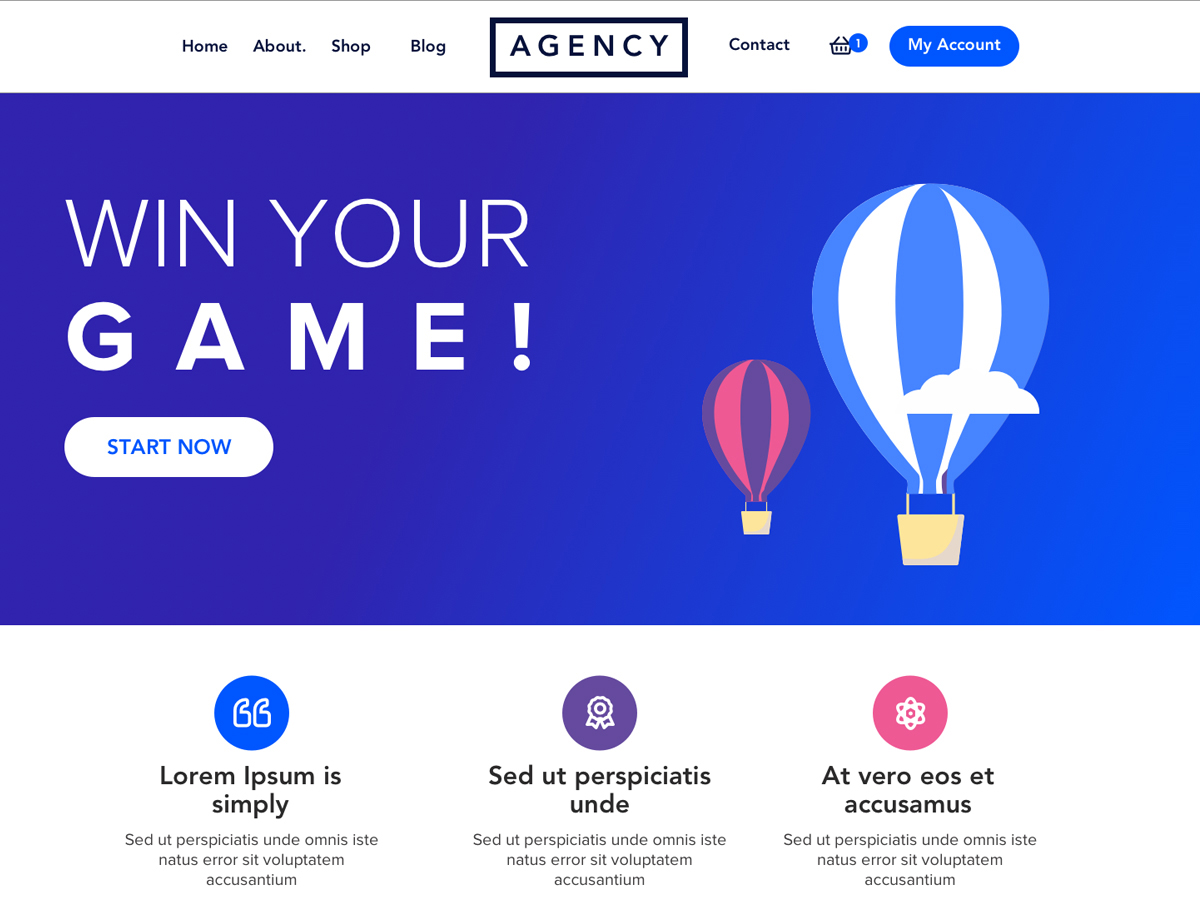
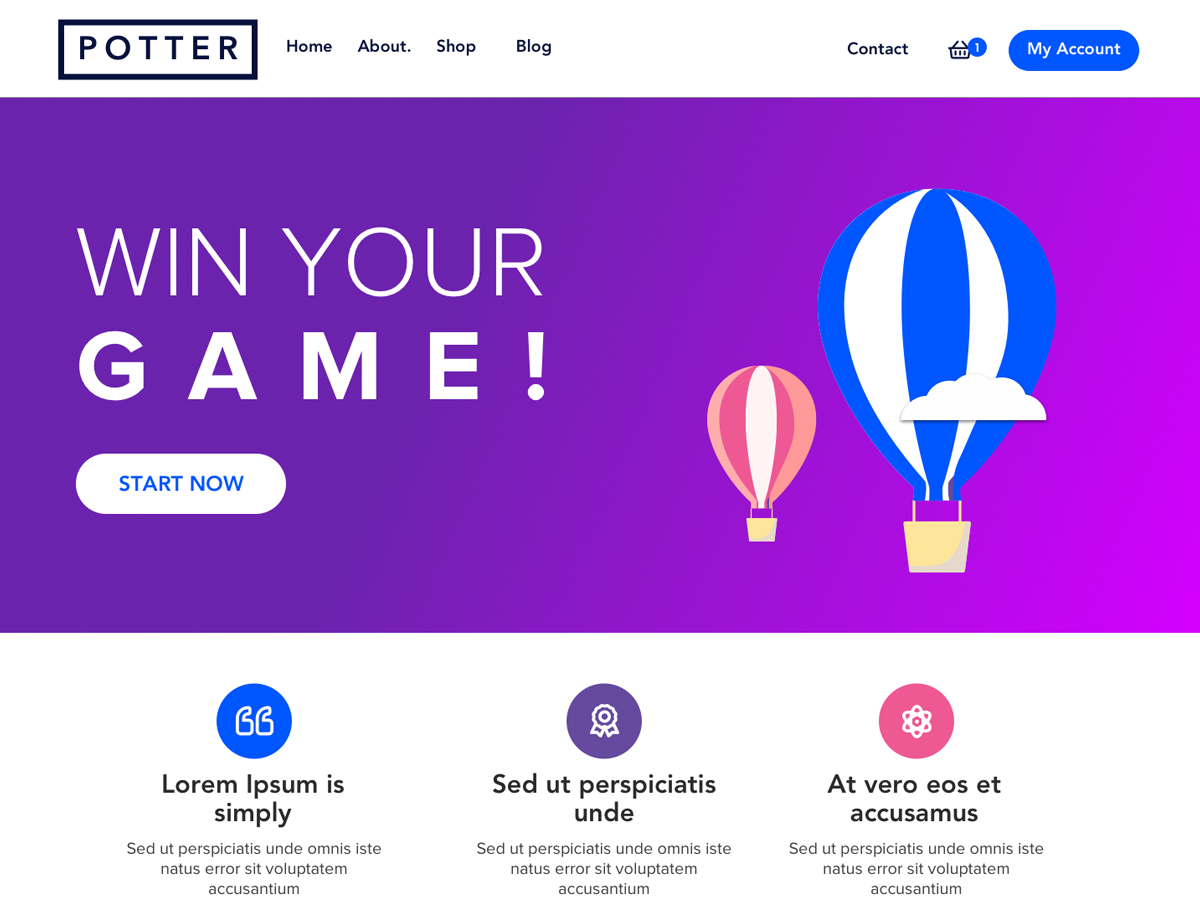
Version 1.1.2 Released

diff --git a/js/min/site-min.js b/js/min/site-min.js
@@ -4,5 +4,5 @@ var b=0;if(a(".calculate-width").each(function(){b+=a(this).outerWidth()}),200>b
 a(".potter-sub-menu-animation-fade > .menu-item-has-children").hover(function(){a(".sub-menu",this).first().stop().fadeIn(d)},function(){a(".sub-menu",this).first().stop().fadeOut(d)});a(".potter-sub-menu > .menu-item-has-children:not(.potter-mega-menu) .menu-item-has-children").hover(function(){a(".sub-menu",this).first().stop().css({display:"block"}).animate({opacity:"1"},d)},function(){a(".sub-menu",this).first().stop().animate({opacity:"0"},d,function(){a(this).css({display:"none"})})});a(window).load(function(){a(".opacity").delay(200).animate({opacity:"1"},
 200);a(".display-none").show();a(window).trigger("resize");a(window).trigger("scroll")});var f=a(".potter-page").css("margin-top");if(a(window).resize(function(){a(".potter-page").width()>=a(window).width()?a(".potter-page").css({"margin-top":"0","margin-bottom":"0"}):a(".potter-page").css({"margin-top":f,"margin-bottom":f})}),a(".potter-menu-centered").length){var e=a(".potter-navigation .potter-menu > li > a").length/2,e=(e=Math.floor(e))-1;a(".potter-menu-centered .logo-container").insertAfter(".potter-navigation .potter-menu >li:eq("+
 e+")").css({display:"block"})}a("body").mousedown(function(){a(this).addClass("using-mouse");a(".menu-item-has-children").removeClass("potter-sub-menu-focus")});a("body").keydown(function(){a(this).removeClass("using-mouse")});a(".potter-menu-container #navigation a").on("focus",c);a(".potter-menu-container #navigation a").on("blur",c)}(jQuery);
-jQuery(document).ready(function(){var a=jQuery("#main-navbar");if(a.length)var b=a.offset().top;var c=function(){jQuery(window).scrollTop()>b?(jQuery("#main-navbar").addClass("stickynav"),jQuery(".site-logo").addClass("hide-on-sticky")):(jQuery("#main-navbar").removeClass("stickynav"),jQuery(".site-logo").removeClass("hide-on-sticky"))};c();jQuery(window).scroll(function(){c()})});
+jQuery(document).ready(function(){var a=jQuery("#main-navbar");if(a.length)var b=a.offset().top;var c=function(){jQuery(window).scrollTop()>b?(jQuery("#main-navbar").addClass("stickynav"),jQuery(".site-logo").addClass("hide-on-sticky")):(jQuery("#main-navbar").removeClass("stickynav"),jQuery(".site-logo").removeClass("hide-on-sticky"))};c();jQuery(window).scroll(function(){c()});a=jQuery("#header").height();jQuery("#header").css("min-height",a+"px")});
 jQuery("#potter-menu-toggle").click(function(){jQuery(".potter-menu-off-canvas").toggleClass("canvas-visible");jQuery(this).toggleClass("canvas-close-nav");jQuery(".potter-menu-overlay").toggleClass("menu-overlay-visible")});jQuery(".potter-menu-off-canvas .potter-close").click(function(){jQuery(".potter-menu-off-canvas").toggleClass("canvas-visible");jQuery("#potter-menu-toggle").toggleClass("canvas-close-nav");jQuery(".potter-menu-overlay").toggleClass("menu-overlay-visible")});

diff --git a/style.css b/style.css
@@ -1295,7 +1295,34 @@ body:focus {
 .potter-logo-container {
   line-height: 1.5
 }
+.potter-split-menu {
+  display: table;
+  width: 100%;
+}
+.logo-container-split {
+  padding-left: 0px;
+  display: table-cell;
+  padding-right: 30px;
+  vertical-align: middle;
+}
+.logo-container-split a{
+  display: block;
+}
+.split-left-menu {
+  display: table-cell;
+  vertical-align: middle;
+}
+.split-left-menu #navigation-left {
+  float: left;
+}
+.split-left-menu #navigation-right {
+  float: right;
+}
 
+.split-menu .main-nav-left-menu ul.potter-sub-menu {
+  display: block;
+  margin: auto 0px;
+}
 .potter-logo a {
   font-weight: 700;
   font-size: 22px
@@ -1527,6 +1554,12 @@ body:focus {
   justify-content: center;
   margin: auto;
 }
+.potter-menu-centered .main-nav-left-menu nav {
+  float: right;
+}
+.potter-menu-centered .main-nav-right-menu nav {
+  float: left;
+}
 
 .potter-menu-stacked {
   text-align: center
@@ -1649,8 +1682,16 @@ body:focus {
 .stickynav {
   position: fixed;
   top: 0;
-  left: 0;
-  width: 100%
+  left: 0px;
+  width: 100%;
+}
+#content {
+  transition: 3s;
+  animation: smoothScroll 1s backwards;
+}
+
+.hide-on-sticky {
+  display: none !important;
 }
 
 @media(min-width:1025px) {
@@ -1843,7 +1884,8 @@ body:focus {
 }
 
 .potter-navigation {
-  border-bottom: 1px solid #ccc
+  border-bottom: 1px solid #ccc;
+
 }
 
 .potter-page {

diff --git a/admin/css/potter-admin.css b/admin/css/potter-admin.css
@@ -153,6 +153,7 @@
 }
 .potter-core-sidebar-block {
     margin: calc(3% + 1.5em) auto;
+    text-align: center;
 }
 .potter-core-sidebar-block .potter-admin-sidebar-logo {
     display: block;
@@ -298,6 +299,7 @@
     outline: none;
     box-shadow: none;
     transition: all 0.3s;
+    margin: auto;
 }
 
 .potter-admin-sidebar-cta a:hover {

diff --git a/js/regular/site.js b/js/regular/site.js
@@ -119,7 +119,9 @@ jQuery(document).ready(function() {
   c();
   jQuery(window).scroll(function() {
     c()
-  })
+  });
+  a = jQuery("#main-navbar").height();
+  jQuery("#header").css("min-height", a + "px")
 });
 jQuery("#potter-menu-toggle").click(function() {
   jQuery(".potter-menu-off-canvas").toggleClass("canvas-visible");

diff --git a/admin/admin.php b/admin/admin.php
@@ -63,29 +63,23 @@ class Potter_Admin
         <div class="potter-core-sidebar">
           <div class="potter-core-sidebar-block"><div class="potter-admin-sidebar-logo">
 
-  <svg width="100px" viewBox="0 0 508 657" version="1.1" xmlns="http://www.w3.org/2000/svg" xmlns:xlink="http://www.w3.org/1999/xlink">
-      <defs>
-          <polygon id="path-1" points="0.000250887204 0.514599158 505.612982 0.514599158 505.612982 361.11649 0.000250887204 361.11649"></polygon>
-      </defs>
-      <g id="logo" stroke="none" stroke-width="1" fill="none" fill-rule="evenodd">
-          <g id="Group-9" transform="translate(254.000000, 328.500000) scale(1, -1) translate(-254.000000, -328.500000) ">
-              <g id="Group-3" fill="#4660C4">
-                  <path d="M66.843121,477.703371 L0.943655943,477.703371 L0.943655943,181.303026 C0.943655943,81.3319098 81.9026121,0.000506927218 181.412823,0.000506927218 C280.92051,0.000506927218 361.876943,81.3319098 361.876943,181.303026 L295.980001,181.303026 C295.980001,117.838273 244.584978,66.202667 181.412823,66.202667 C118.238144,66.202667 66.843121,117.838273 66.843121,181.303026 L66.843121,477.703371 Z" id="Fill-1"></path>
-                  <path d="M179.030896,326.170205 C265.813865,326.170205 336.165361,302.0182 336.165361,209.468981 C336.165361,116.919762 265.813865,41.8937962 179.030896,41.8937962 C92.2479279,41.8937962 21.8964317,116.919762 21.8964317,209.468981 C21.8964317,252.797892 24.4461444,359.15822 49.7530168,377.044166 C78.5008437,397.362048 132.877245,326.170205 179.030896,326.170205 Z" id="Oval"></path>
+          <svg width="103px" height="122px" viewBox="0 0 103 122" version="1.1" xmlns="http://www.w3.org/2000/svg" xmlns:xlink="http://www.w3.org/1999/xlink">
+              <defs>
+                  <polygon id="path-1" points="0 0.0715545926 102.74172 0.0715545926 102.74172 121.961314 0 121.961314"></polygon>
+              </defs>
+              <g id="logo" stroke="none" stroke-width="1" fill="none" fill-rule="evenodd">
+                  <g id="Group-6" transform="translate(51.500000, 61.000000) scale(-1, -1) translate(-51.500000, -61.000000) ">
+                      <g id="Group-3">
+                          <mask id="mask-2" fill="white">
+                              <use xlink:href="#path-1"></use>
+                          </mask>
+                          <g id="Clip-2"></g>
+                          <path d="M47.3345473,1.7464715 C45.1060019,3.97930315 45.1060019,7.60140014 47.3345473,9.83423179 L79.6230966,42.184882 C87.1697973,49.7460975 91.3260814,59.7989216 91.3260814,70.4916521 C91.3260814,81.1847736 87.1697973,91.2375977 79.6230966,98.7984222 C72.076786,106.359247 62.0432595,110.523525 51.3706648,110.523525 C40.6984602,110.523525 30.6649337,106.359247 23.1186231,98.7984222 C15.5723125,91.2375977 11.4156383,81.1847736 11.4156383,70.4916521 C11.4156383,61.7295861 14.206392,53.3975121 19.366536,46.5137297 L27.560108,54.7226695 C20.2354034,65.8184199 21.4456534,80.9474961 31.1904678,90.7106619 C42.3179792,101.859575 60.4233504,101.859575 71.5512519,90.7106619 C76.9415852,85.3103522 79.9102481,78.1294843 79.9102481,70.4916521 C79.9102481,62.8542108 76.9415852,55.6733429 71.5512519,50.2726423 L55.4067822,34.0971217 C53.1778466,31.8638992 49.5638731,31.8638992 47.3345473,34.0971217 C45.1060019,36.3303443 45.1060019,39.9520504 47.3345473,42.184882 L63.479017,58.3604026 C66.7133731,61.6009793 68.4944148,65.9091092 68.4944148,70.4916521 C68.4944148,75.074586 66.7133731,79.3823249 63.479017,82.6229016 C56.8027443,89.3120149 45.9389754,89.3120149 39.2627027,82.6229016 C32.5860398,75.9337884 32.5860398,65.0495159 39.2627027,58.3604026 C41.4912481,56.1263982 41.4912481,52.5058649 39.2627027,50.2726423 L23.1186231,34.0971217 C22.0484375,33.0248778 20.5962936,32.422498 19.0825057,32.422498 C17.5687178,32.422498 16.116964,33.0248778 15.0463883,34.0971217 C5.34371023,43.818852 -0.000195075758,56.7436323 -0.000195075758,70.4916521 C-0.000195075758,84.2396719 5.34371023,97.1648432 15.0463883,106.885792 C24.7486761,116.607131 37.649036,121.961314 51.3706648,121.961314 C65.0922936,121.961314 77.9926534,116.607522 87.6953314,106.885792 C97.3980095,97.1648432 102.741915,84.2396719 102.741915,70.4916521 C102.741915,56.7436323 97.3983996,43.818852 87.6953314,34.0971217 L55.4067822,1.7464715 C53.1778466,-0.486751044 49.5638731,-0.486751044 47.3345473,1.7464715" id="Fill-1" fill="#FF6B6B" mask="url(#mask-2)"></path>
+                      </g>
+                      <path d="M36.5736464,27.8902706 C36.9255291,27.8199986 37.2691411,27.7140271 37.6033544,27.5776168 C37.9334324,27.437073 38.2541119,27.2702241 38.5537385,27.072185 C38.7033638,26.9707229 38.8484779,26.8655029 38.9845692,26.7508882 C39.1255479,26.6366494 39.2616393,26.5130159 39.3894599,26.3856245 C39.5172806,26.2627426 39.6360786,26.1263323 39.7503653,25.9857885 C39.864652,25.8490025 39.9748033,25.6998155 40.0714206,25.5502528 C40.2695426,25.2556368 40.4413486,24.93434 40.57744,24.6044001 C40.7139073,24.2703266 40.8195473,23.9272342 40.8898487,23.5754988 C40.9251873,23.3992553 40.9515033,23.2192539 40.973684,23.0388767 C40.9913533,22.863009 41,22.6781224 41,22.5026305 C41,21.0554796 40.4105213,19.6346338 39.3894599,18.6139997 C38.3642632,17.589232 36.9477097,17 35.499953,17 C35.3195003,17 35.1390477,17.0135283 34.9589709,17.0311902 C34.7785183,17.0484764 34.602201,17.0747814 34.4262596,17.1101052 C34.0743769,17.1803772 33.7266296,17.2859729 33.3965516,17.4223832 C33.0623382,17.5587934 32.7454182,17.7301517 32.4461675,17.9281908 C32.2965422,18.0292771 32.1514282,18.1348729 32.0108255,18.2491118 C31.8698468,18.3637264 31.7378908,18.4866084 31.6104461,18.6139997 C31.4826254,18.7417669 31.3593161,18.8740435 31.2450294,19.0145873 C31.1352541,19.1509975 31.0251027,19.3005603 30.9284854,19.450123 C30.7303634,19.744739 30.5589333,20.0660358 30.422466,20.4001093 C30.2814874,20.7300492 30.1758474,21.0772752 30.105546,21.424877 C30.0705833,21.600369 30.0438914,21.7811219 30.026222,21.961499 C29.9912593,22.3173681 29.9912593,22.6826319 30.026222,23.0388767 C30.0438914,23.2192539 30.0705833,23.3992553 30.105546,23.5754988 C30.1758474,23.9272342 30.2814874,24.2703266 30.422466,24.6044001 C30.5589333,24.93434 30.7303634,25.2556368 30.9284854,25.5502528 C31.0251027,25.6998155 31.1352541,25.8490025 31.2450294,25.9857885 C31.3593161,26.1263323 31.4826254,26.2627426 31.6104461,26.3856245 C31.7378908,26.5130159 31.8698468,26.6366494 32.0108255,26.7508882 C32.1514282,26.8655029 32.2965422,26.9707229 32.4461675,27.072185 C32.7454182,27.2702241 33.0623382,27.437073 33.3965516,27.5776168 C33.7266296,27.7140271 34.0743769,27.8199986 34.4262596,27.8902706 C34.602201,27.9248429 34.7785183,27.9515236 34.9589709,27.9691856 C35.1390477,27.9868475 35.3195003,28 35.499953,28 C35.6804057,28 35.8608583,27.9868475 36.041311,27.9691856 C36.2168764,27.9515236 36.397705,27.9248429 36.5736464,27.8902706" id="Fill-4" fill="#FF6B6B"></path>
+                  </g>
               </g>
-              <path d="M327.5,657 L327.5,590.899668 C390.686355,590.899668 442.090878,539.347988 442.090878,475.983278 L442.090878,328.016722 C442.090878,264.649481 390.686355,213.100332 327.5,213.100332 C264.316168,213.100332 212.911645,264.649481 212.911645,328.016722 L147,328.016722 C147,228.205726 227.97392,147 327.5,147 C427.028603,147 508,228.205726 508,328.016722 L508,475.983278 C508,575.796804 427.028603,657 327.5,657" id="Fill-4" fill="#4FCEC4"></path>
-              <path d="M449.473768,359.830169 C508.914629,377.097622 466.053621,320.330966 466.053621,273.915085 C466.053621,227.499203 415.18857,188 334.505176,188 C253.821782,188 163,258.560423 163,304.976304 C163,351.392186 390.032907,342.562716 449.473768,359.830169 Z" id="Oval" fill="#4FCEC4"></path>
-              <g id="Group-8" transform="translate(1.000000, 295.000000)">
-                  <mask id="mask-2" fill="white">
-                      <use xlink:href="#path-1"></use>
-                  </mask>
-                  <g id="Clip-7"></g>
-                  <path d="M179.459868,66.3536037 C116.637712,66.3536037 65.5294797,117.701474 65.5294797,180.815671 C65.5294797,243.929868 116.637712,295.277738 179.459868,295.277738 L326.153616,295.277738 C388.973263,295.277738 440.081496,243.929868 440.081496,180.815671 C440.081496,117.701474 388.973263,66.3536037 326.153616,66.3536037 L179.459868,66.3536037 Z M326.153616,361.116742 L179.459868,361.116742 C80.5049369,361.116742 0.000250887204,280.234584 0.000250887204,180.815671 C0.000250887204,81.3967575 80.5049369,0.514599158 179.459868,0.514599158 L326.153616,0.514599158 C425.108547,0.514599158 505.613233,81.3967575 505.613233,180.815671 C505.613233,280.234584 425.108547,361.116742 326.153616,361.116742 Z" id="Fill-6" fill="#FF6B6B" mask="url(#mask-2)"></path>
-              </g>
-              <ellipse id="Oval" fill="#FF6B6B" cx="252" cy="480.5" rx="209" ry="146.5"></ellipse>
-          </g>
-      </g>
-  </svg>
+          </svg>
           <p class="theme-content">
           ' . sprintf(__('Potter is a super fast, gutenberg ready fully customizable & beautiful theme suitable for blog, personal portfolio, business website and WooCommerce storefront.', 'potter')) . '
           </p>

diff --git a/inc/customizer/styles.php b/inc/customizer/styles.php
@@ -515,6 +515,7 @@ $button_primary_bg_color         = get_theme_mod('button_primary_bg_color');
 $button_primary_text_color       = get_theme_mod('button_primary_text_color');
 $button_primary_bg_color_alt     = get_theme_mod('button_primary_bg_color_alt');
 $button_primary_text_color_alt   = get_theme_mod('button_primary_text_color_alt');
+$buttom_font_family_value = get_theme_mod('button_font_family');
 
 if ($button_border_width) {
     echo '.potter-button, input[type="submit"], .button {';
@@ -560,6 +561,24 @@ if ($button_bg_color || $button_text_color || $button_border_radius) {
         echo sprintf('color: %s;', esc_attr($button_text_color));
     }
 }
+if (! empty($buttom_font_family_value['font-family'])) {
+    echo sprintf('font-family: %s !important;', html_entity_decode(esc_attr($buttom_font_family_value['font-family']), ENT_QUOTES));
+}
+
+if (! empty($buttom_font_family_value['variant'])) {
+    $buttom_font_family_font_weight = str_replace('italic', '', $buttom_font_family_value['variant']);
+    $buttom_font_family_font_weight = (in_array($buttom_font_family_font_weight, array( '', 'regular' ))) ? '400' : $buttom_font_family_font_weight;
+
+    $buttom_font_family_is_italic = (false !== strpos($buttom_font_family_value['variant'], 'italic'));
+    $buttom_font_family_is_style  = $buttom_font_family_is_italic ? 'italic' : 'normal';
+
+    echo sprintf('font-weight: %s !important;', esc_attr($buttom_font_family_font_weight));
+    echo sprintf('font-style: %s !important;', esc_attr($buttom_font_family_is_style));
+}
+if (! empty($buttom_font_family_value['text-transform'])) {
+    echo sprintf('text-transform: %s !important;', html_entity_decode(esc_attr($buttom_font_family_value['text-transform']), ENT_QUOTES));
+}
+
 echo '}';
 
 if ($button_bg_color_alt || $button_text_color_alt) {
@@ -1481,6 +1500,9 @@ if ($custom_logo) {
         $suffix = is_numeric($menu_logo_size_desktop) ? 'px' : '';
 
         echo '.potter-logo img, .potter-mobile-logo img {';
+        echo sprintf('width: %s;', esc_attr($menu_logo_size_desktop) . $suffix);
+        echo '}';
+        echo '.logo-container-split {';
         echo sprintf('width: %s;', esc_attr($menu_logo_size_desktop) . $suffix);
         echo '}';
     }

diff --git a/inc/customizer/potter-kirki.php b/inc/customizer/potter-kirki.php
@@ -2237,6 +2237,22 @@ Kirki::add_field('potter', array(
 
 /* Fields – Buttons */
 
+// Font family.
+Kirki::add_field('potter', array(
+    'type'            => 'typography',
+    'settings'        => 'button_font_family',
+    'label'           => __('Typography', 'potter'),
+    'section'         => 'potter_button_options',
+    'default'         => array(
+        'font-family' => 'Helvetica, Arial, sans-serif',
+        'variant'     => 'regular',
+        'text-transform'     => 'capitalize',
+    ),
+    'choices'         => potter_default_font_choices(),
+    'priority'        => 1,
+));
+
+
 // Background color.
 Kirki::add_field('potter', array(
     'type'     => 'color',
@@ -3777,7 +3793,7 @@ Kirki::add_field('potter', array(
 Kirki::add_field('potter', array(
     'type'     => 'radio-image',
     'settings' => 'menu_position',
-    'label'    => __('Menu Bar', 'potter'),
+    'label'    => __('Nav Bar Layout', 'potter'),
     'section'  => 'potter_menu_options',
     'default'  => 'menu-right',
     'priority' => 0,
@@ -3786,6 +3802,7 @@ Kirki::add_field('potter', array(
         'menu-right'   => POTTER_THEME_URI . '/inc/customizer/img/nav-right.png',
         'menu-left'  => POTTER_THEME_URI . '/inc/customizer/img/nav-left.png',
         'menu-centered'  => POTTER_THEME_URI . '/inc/customizer/img/nav-center.png',
+        'menu-split'  => POTTER_THEME_URI . '/inc/customizer/img/nav-split.png',
         'menu-stacked'  => POTTER_THEME_URI . '/inc/customizer/img/nav-stacked.png',
         'menu-off-canvas'  => POTTER_THEME_URI . '/inc/customizer/img/nav-off-canvas.png',
     ),

diff --git a/inc/template-parts/navigation/menu-split.php b/inc/template-parts/navigation/menu-split.php
@@ -1,0 +1,36 @@
+<?php
+/**
+ * Centered menu.
+ *
+ * @package Potter
+ * @subpackage Template Parts
+ */
+
+defined('ABSPATH') || die("Can't access directly");
+
+?>
+
+<div class="potter-container potter-container-center potter-visible-large potter-nav-wrapper potter-menu-centered split-menu">
+	<div class="potter-split-menu">
+				<div class="logo-container-split" > <?php get_template_part('inc/template-parts/logo/logo'); ?> </div>
+				<div class="main-nav-left-menu split-left-menu">
+						<nav id="navigation-left" itemscope="itemscope" itemtype="https://schema.org/SiteNavigationElement" aria-label="<?php esc_attr_e('Site Navigation', 'potter'); ?>">
+							<?php potter_nav_left_menu();?>
+	 				  </nav>
+
+
+							<?php do_action('potter_before_main_menu'); ?>
+							<nav id="navigation-right" itemscope="itemscope" itemtype="https://schema.org/SiteNavigationElement" aria-label="<?php esc_attr_e('Site Navigation', 'potter'); ?>">
+
+								<?php do_action('potter_main_menu_open'); ?>
+
+								<?php do_action('potter_main_menu'); ?>
+
+								<?php do_action('potter_main_menu_close'); ?>
+							</nav>
+
+							<?php do_action('potter_after_main_menu'); ?>
+
+						</div>
+					</div>
+</div>

diff --git a/inc/integration/woocommerce/potter-kirki-woocommerce.php b/inc/integration/woocommerce/potter-kirki-woocommerce.php
@@ -854,6 +854,8 @@ Kirki::add_field( 'potter', array(
 	),
 ) );
 
+
+
 // Image container width.
 Kirki::add_field( 'potter', array(
 	'type'      => 'slider',

diff --git a/readme.md b/readme.md
@@ -18,7 +18,7 @@ License URI: https://www.gnu.org/licenses/gpl-3.0.html
 *  Email: support@pottertheme.com
 *  Tags: one-column, blog, custom-background, custom-logo, custom-header, custom-menu, editor-style, rtl-language-support, featured-image-header, featured-images, flexible-header, custom-colors, full-width-template, sticky-post, threaded-comments, translation-ready, theme-options, two-columns
 * Requires at least: 5.2
-* Tested up to: 5.3
+* Tested up to: 5.4
 * License: GPLv3 or later
 * License URI: https://www.gnu.org/licenses/gpl-3.0.html
 
@@ -87,7 +87,37 @@ Donation Link: https://pottertheme.com/
 
 == Changelog ==
 
+
+= 1.1.2 - April 09 2020 =
+* Added Typography option to theme buttons
+* Fixed sticky navbar issue
+* New Layout Option for Navigation bar
+* CSS Issue fixed related to header layout
+
+= 1.1.1 - March 28 2020 =
+* Increased Customizer UX
+* Sidebar Gap Issue Fixed
+* Transparent Header active menu issue fixed
+* CSS Issue fixed related to page template
+
+
+= 1.1.0 - March 23 2020 =
+* Heading color setting added
+* Woo menu item issue fixed
+* changed screenshot
+* Page Sidebar issue fixed
+
 = 1.88 - March 11 2020 =
 * Echo issue fixed
 * Text translation issue fixed
 * escaped function issue fixed
+
+
+----- Version 1.0.87 -----
+
+* Screenshot changed
+* Removed some unused code and css
+
+----- Version 1.0.86 -----
+
+* Initial Release for approval
